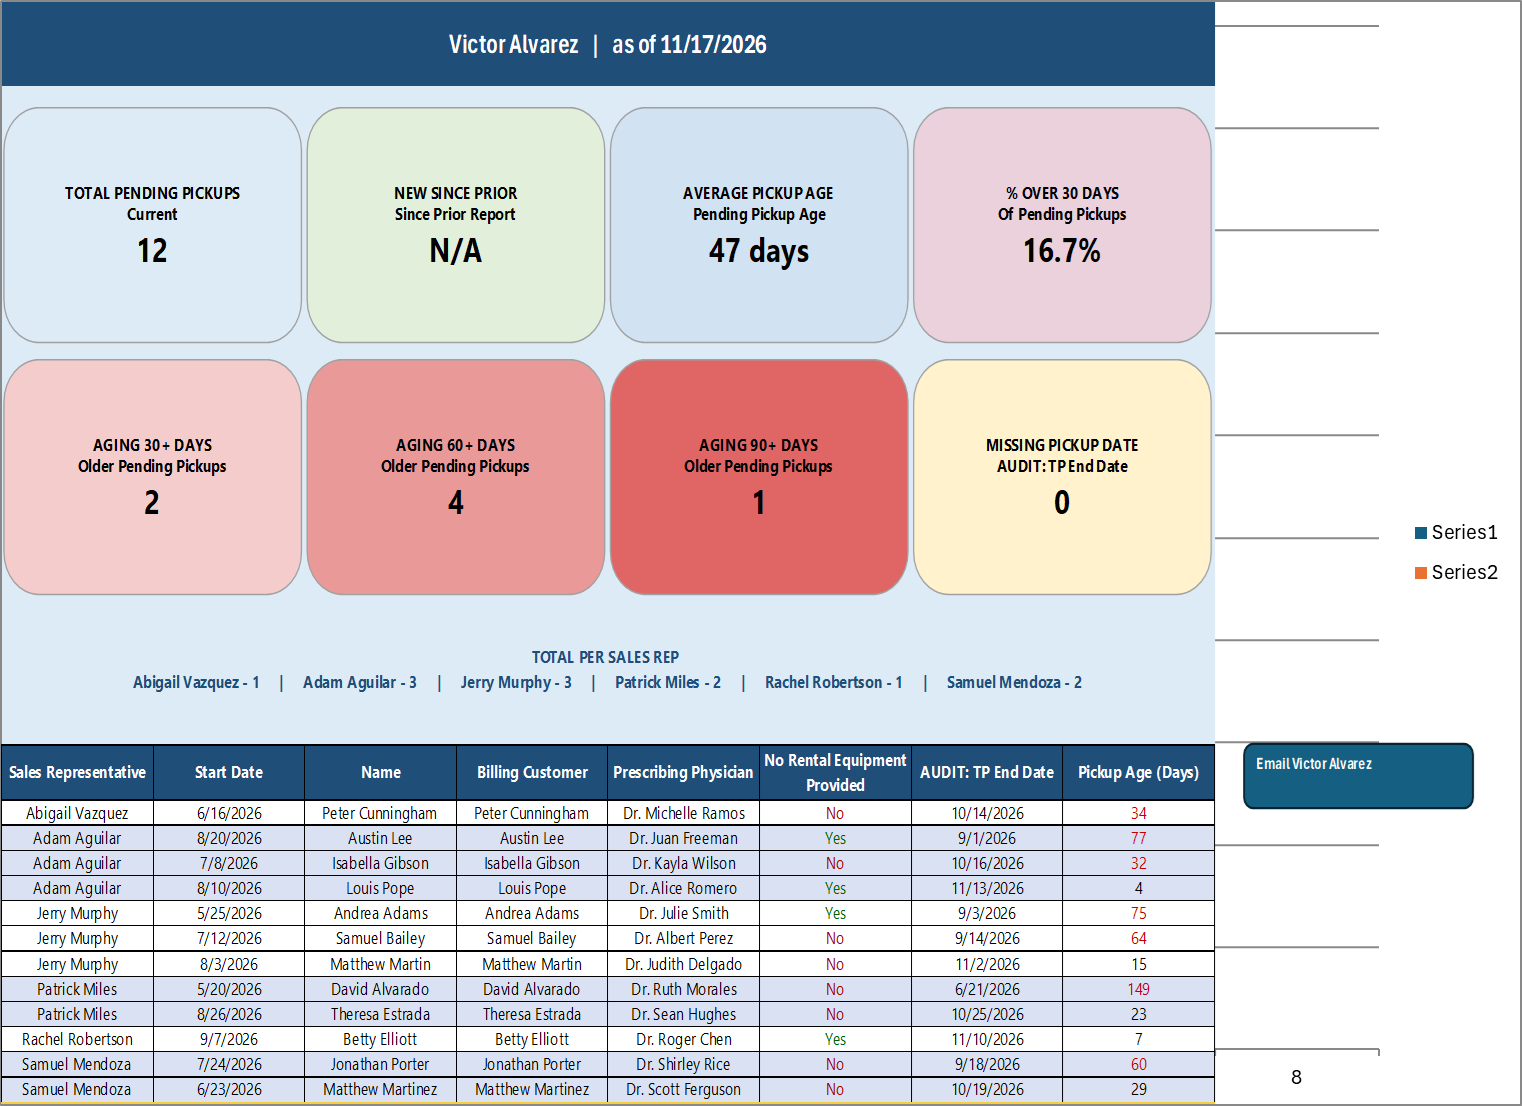
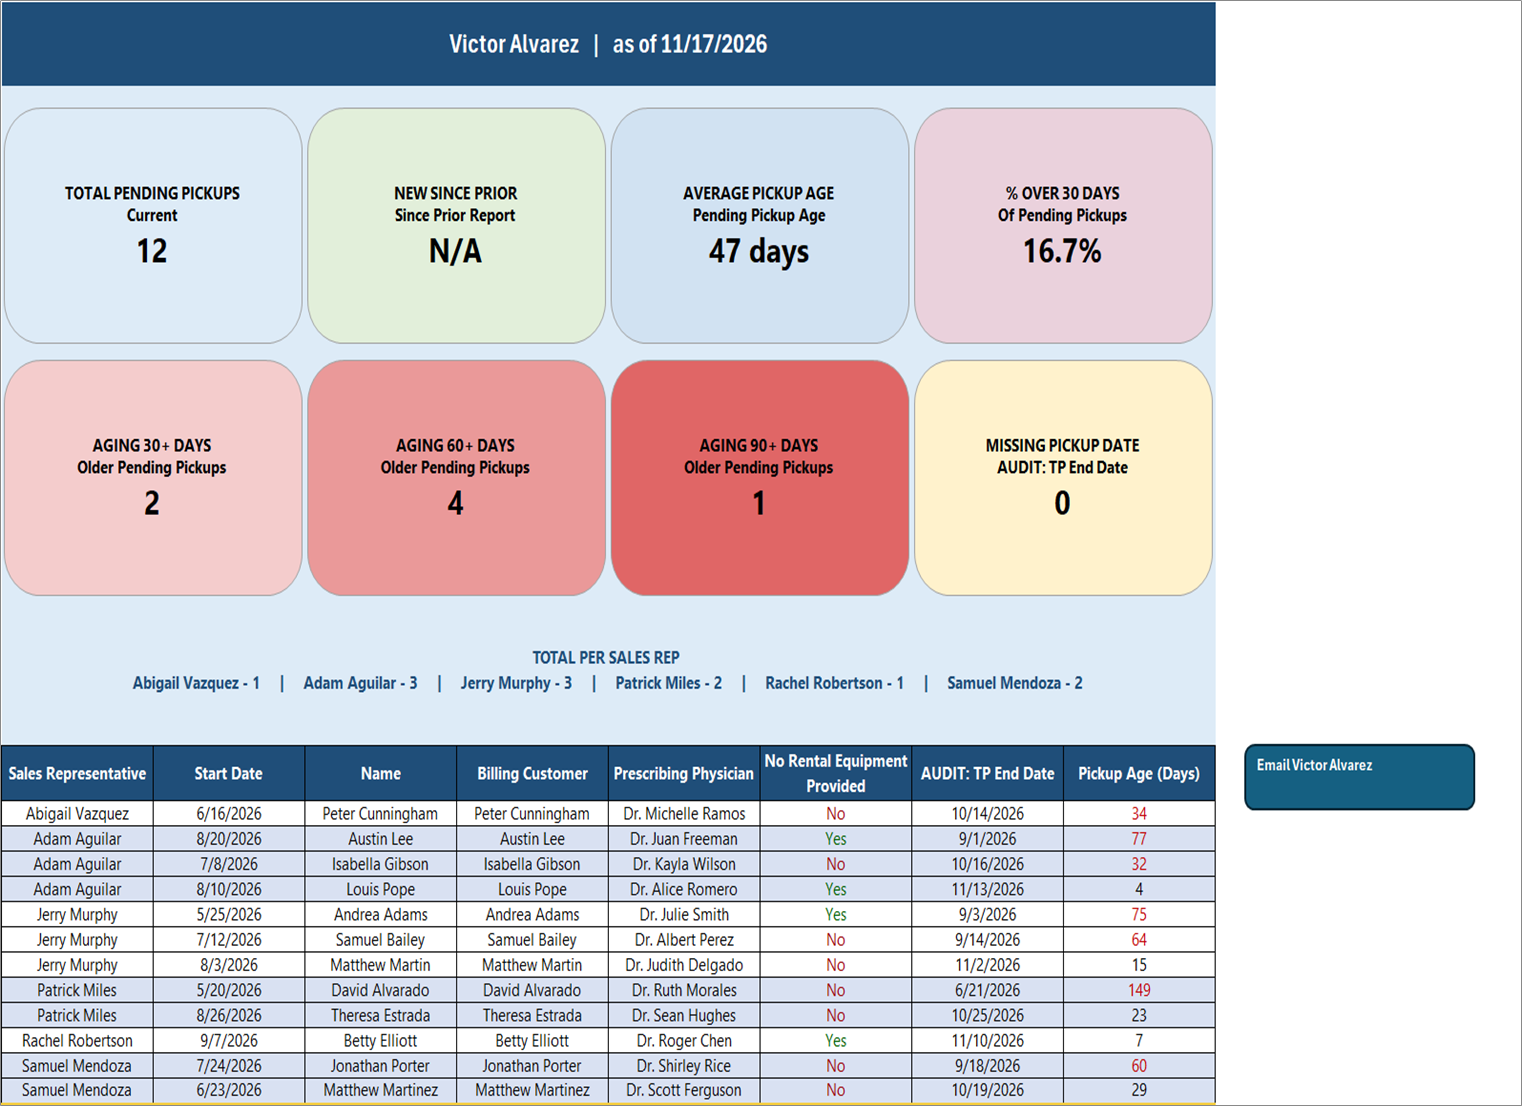
Restore manager email screenshot and update README/report screenshots

diff --git a/scripts/snapshot-report.py b/scripts/snapshot-report.py
@@ -105,6 +105,14 @@ def save_sheet_image(workbook, worksheet, png_path):
     # Activate sheet and set zoom so CopyPicture captures a stable, fully-rendered view.
     worksheet.Activate()
     try:
+        workbook.Application.CutCopyMode = False
+    except Exception:
+        pass
+    try:
+        worksheet.Range("A1").Select()
+    except Exception:
+        pass
+    try:
         workbook.Application.ActiveWindow.ScrollRow = 1
         workbook.Application.ActiveWindow.ScrollColumn = 1
         workbook.Application.ActiveWindow.Zoom = 100
@@ -114,24 +122,28 @@ def save_sheet_image(workbook, worksheet, png_path):
         workbook.Application.ScreenUpdating = True
     except Exception:
         pass
+    try:
+        workbook.Application.Calculate()
+    except Exception:
+        pass
     # Allow Excel time to render/layout (hidden sheets, charts, shapes, formatting).
-    time.sleep(1.5)
+    time.sleep(2.0)
 
-    # Copy the range as a picture (xlPicture preserves vector formatting better than xlBitmap).
-    # Retry up to 4 times - CopyPicture can fail intermittently over COM.
+    # Copy the range as a picture. Bitmap (Format=2) is more faithful to on-screen
+    # rendering and avoids metafile artifacts that can expose hidden/overlay elements.
     copied = False
     for attempt in range(4):
         try:
-            rng.CopyPicture(Appearance=1, Format=1)  # xlScreen=1, xlPicture=1
+            rng.CopyPicture(Appearance=1, Format=2)  # xlScreen=1, xlBitmap=2
             copied = True
             break
         except Exception:
             time.sleep(1.2)
     if not copied:
-        # Fallback: bitmap can be more reliable for some rendered content.
+        # Fallback: picture/metafile
         for attempt in range(2):
             try:
-                rng.CopyPicture(Appearance=1, Format=2)  # xlScreen=1, xlBitmap=2
+                rng.CopyPicture(Appearance=1, Format=1)  # xlScreen=1, xlPicture=1
                 copied = True
                 break
             except Exception:

diff --git a/README.md b/README.md
@@ -124,10 +124,9 @@ Generated workbook includes:
 
 ![Dashboard](documentation/screenshots/report-dashboard.png)
 
-**Manager tab examples**
+**Manager tab (example)**
 
-![Victor Alvarez](documentation/screenshots/report-victor-alvarez.png)
-![Rachel Nguyen](documentation/screenshots/report-rachel-nguyen.png)
+![Manager tab example](documentation/screenshots/report-victor-alvarez.png)
 
 **Raw Data**
 
